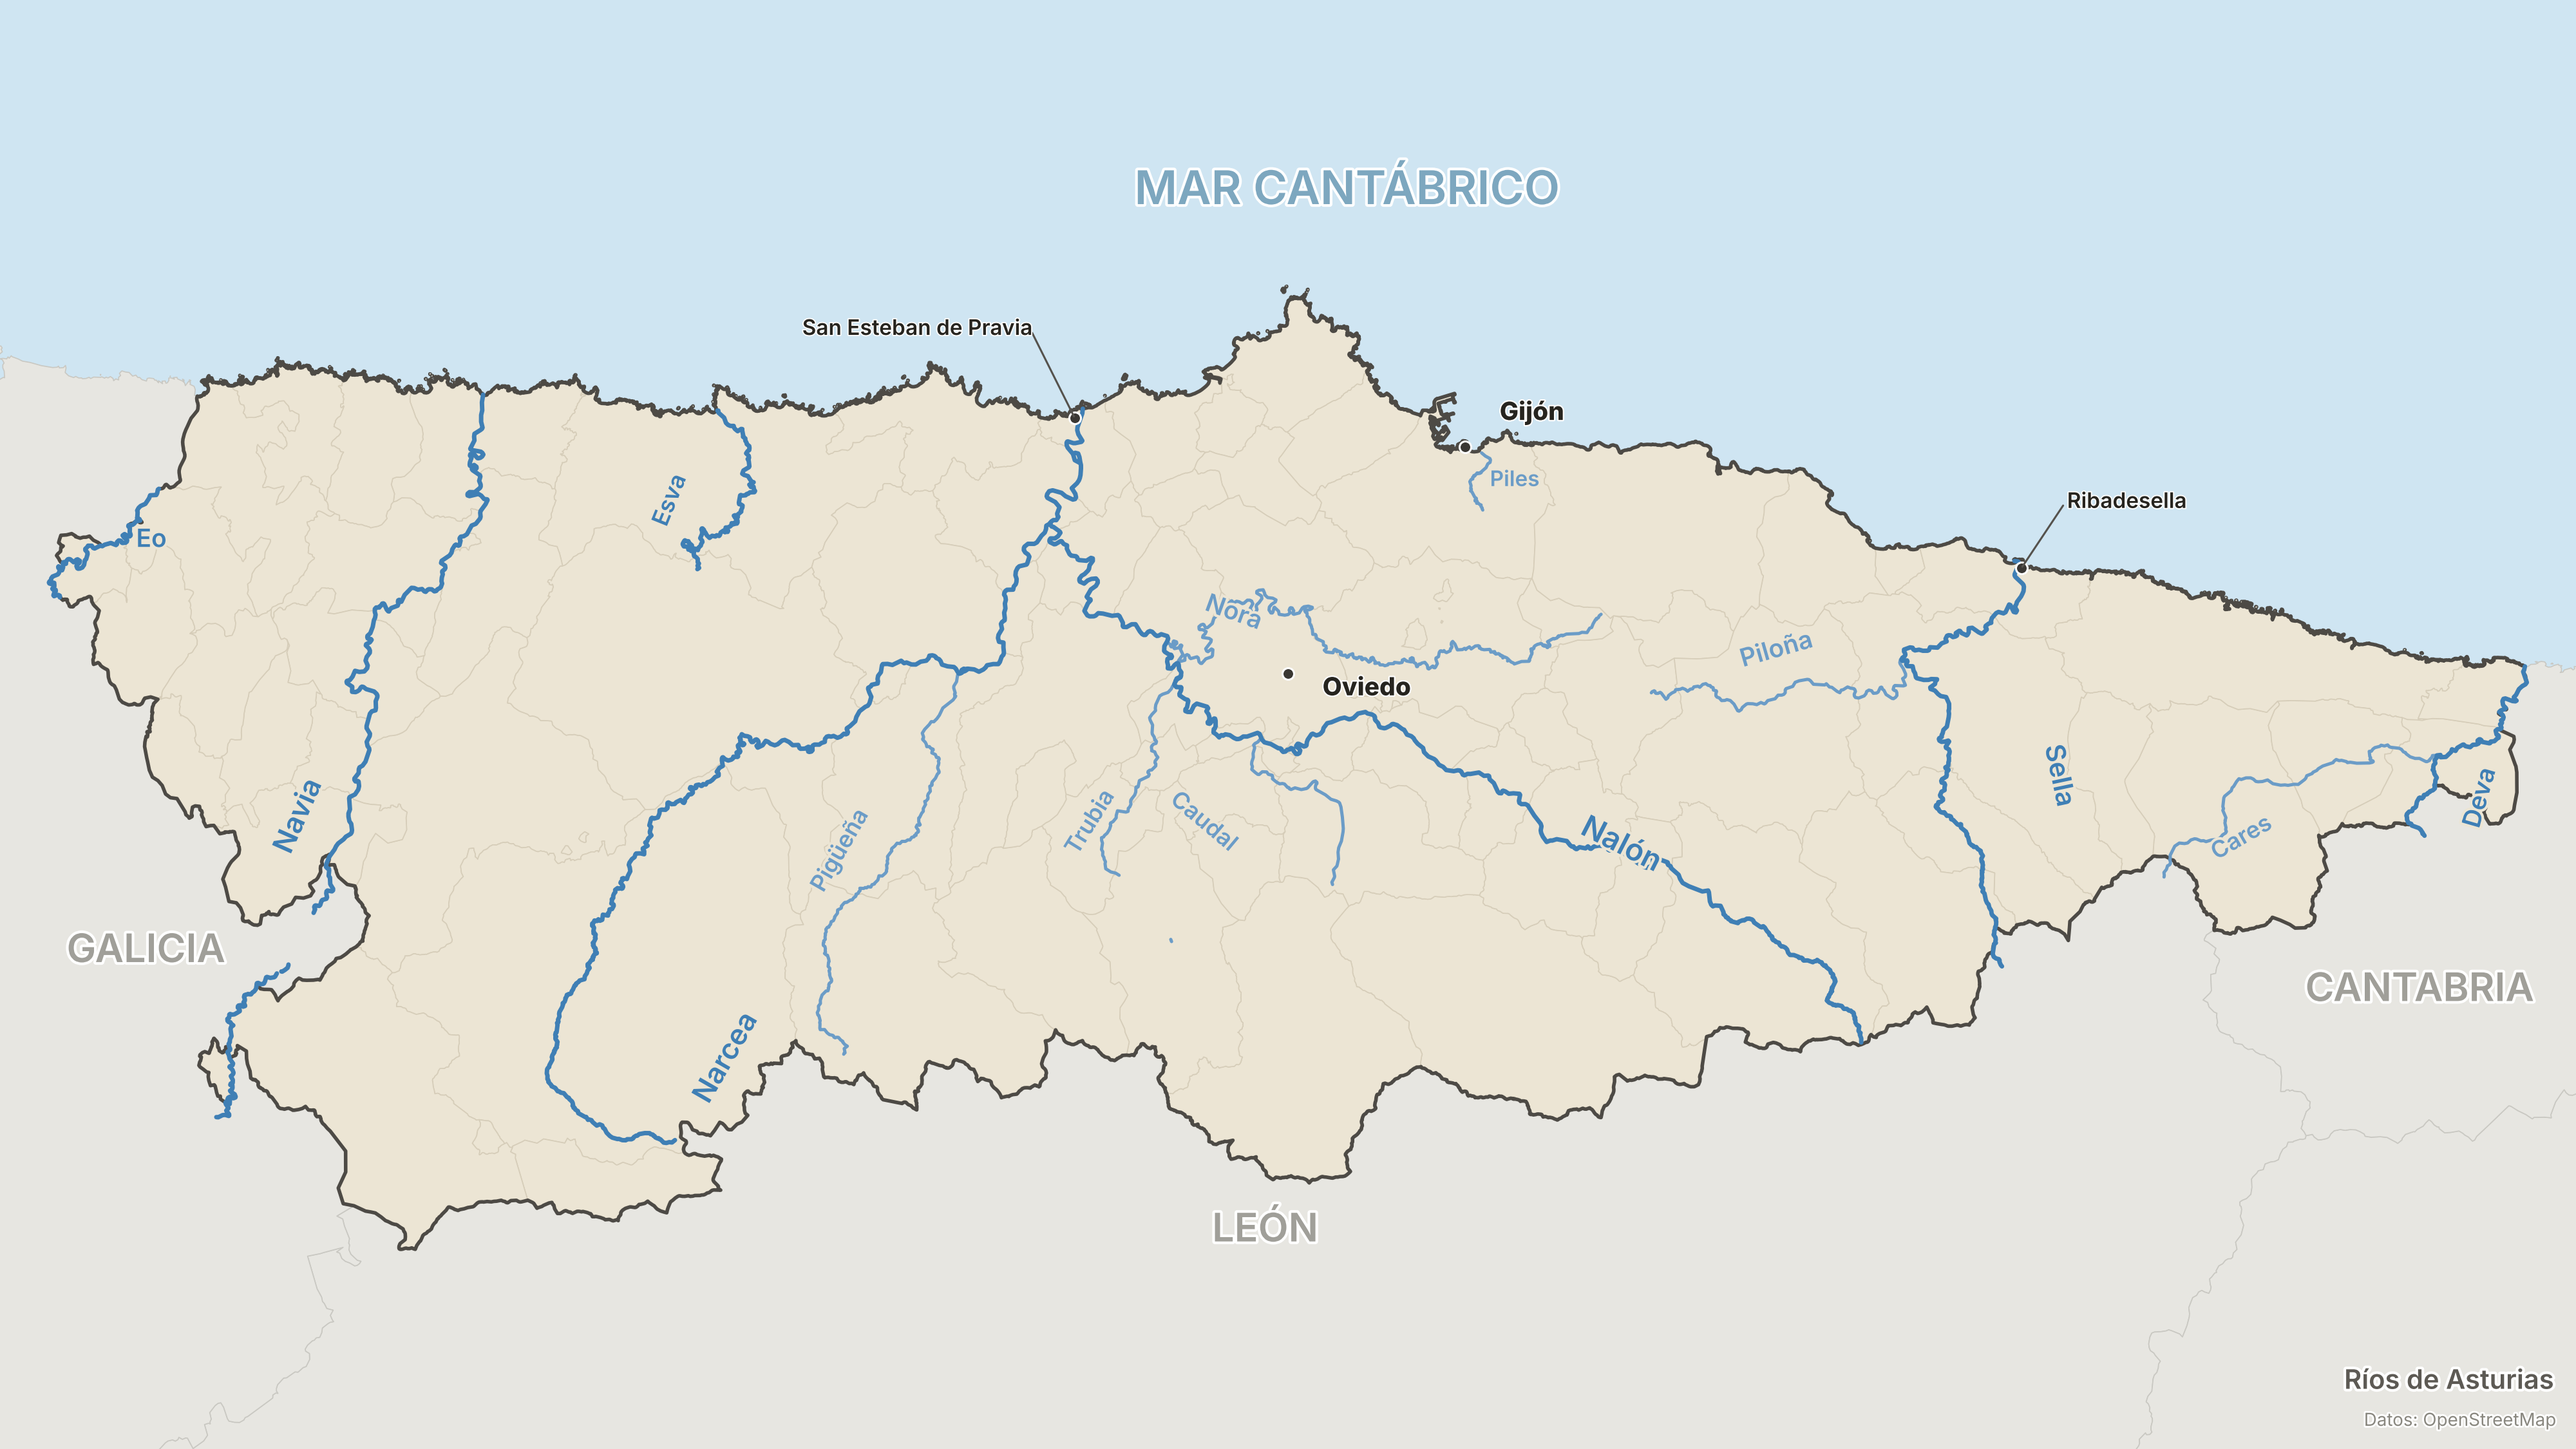
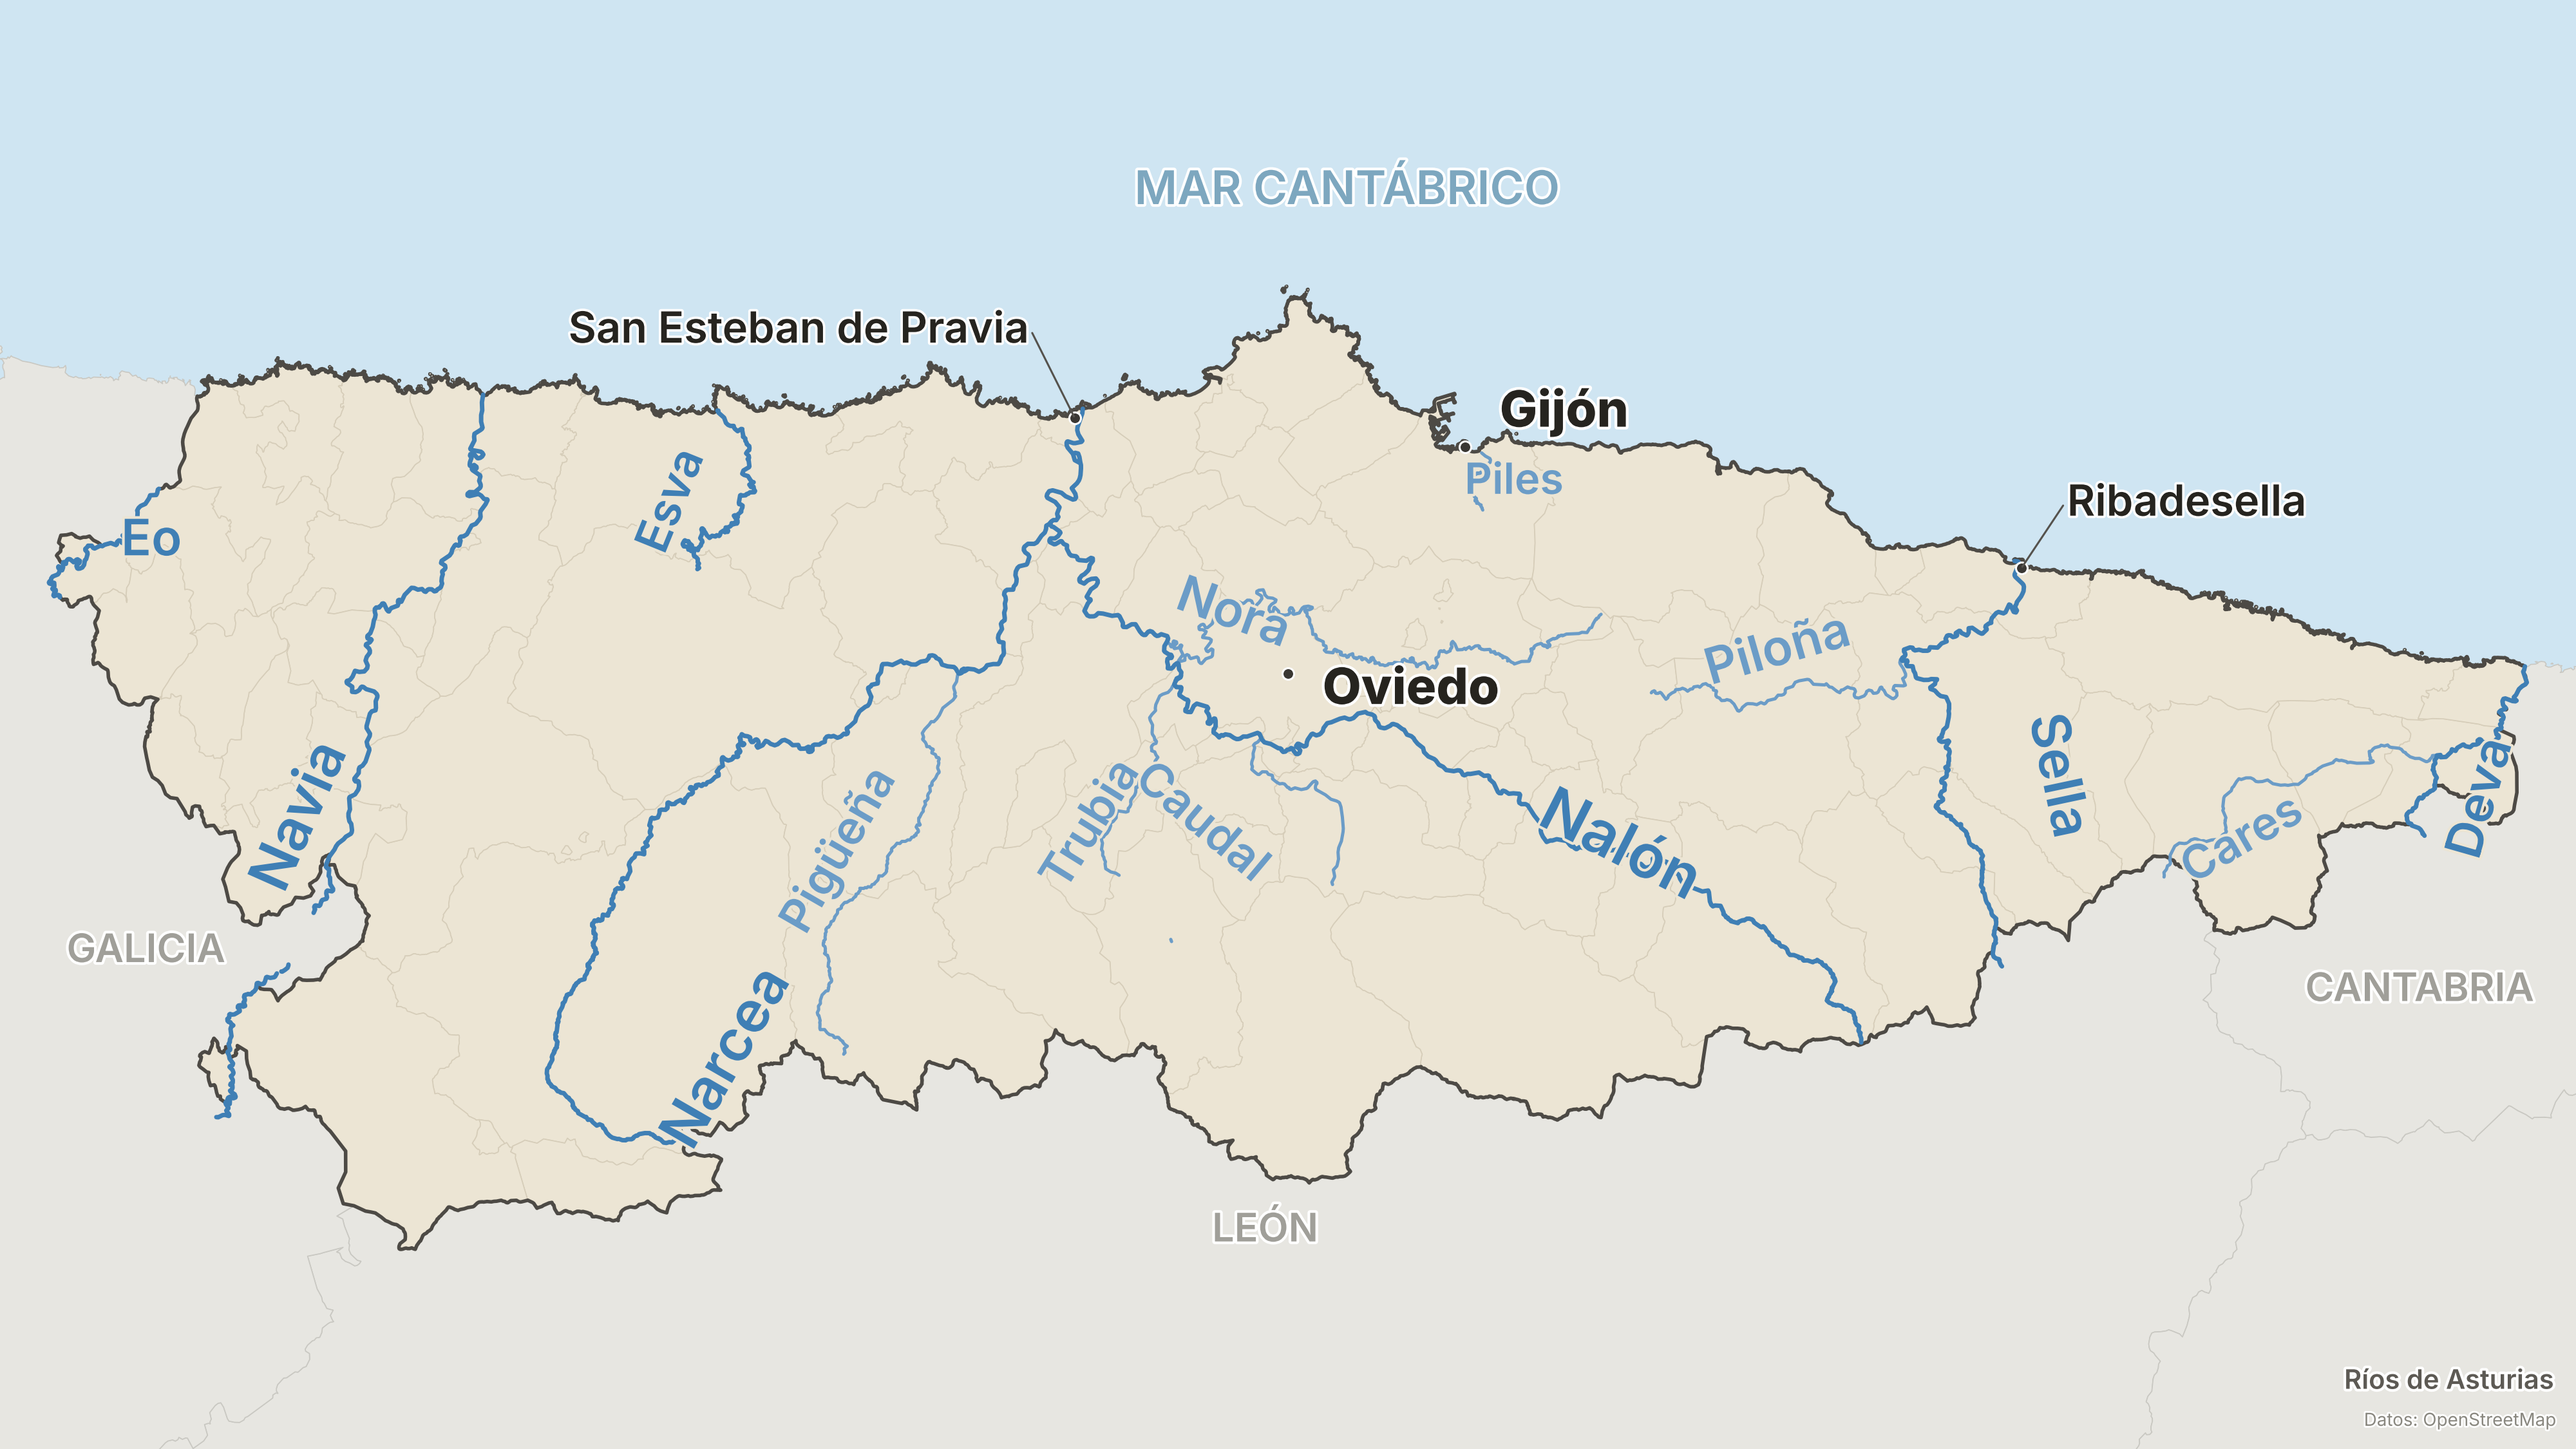
Bump text a bit

diff --git a/tvmaps/maps_asturias.py b/tvmaps/maps_asturias.py
@@ -162,9 +162,9 @@ COMARCA_NAME_ALIASES = {"Tapia de Casariego": "Tapia"}
 COMARCA_LABELS = {
     "Eo-Navia": Label(48),
     "Narcea": Label(48),
-    "Avilés": Label(38, dy=8),
+    "Avilés": Label(48),
     "Oviedo": Label(48),
-    "Gijón": Label(38, dx=-10, dy=2),
+    "Gijón": Label(48, dx=-10, dy=2),
     "Caudal": Label(44),
     "Nalón": Label(44),
     "Oriente": Label(48),
@@ -217,10 +217,10 @@ CONCEJO_MUTED = "#ece5d4"
 def _town_tier(pop):
     """(dot size, label size) by population."""
     if pop >= 100_000:
-        return 26, 36
+        return 26, 50
     if pop >= 20_000:
-        return 20, 30
-    return 14, 26
+        return 20, 42
+    return 14, 36
 
 
 # Text placement per town, offsets in km from the dot. Plain dx/dy places the
@@ -337,7 +337,7 @@ def render_asturias_ciudades_concejos():
     for floor, color, text in TIER_FILL:
         ax.plot(lx, ly, marker="s", ms=30, mfc=color, mec="#7a6f5e", mew=1.8,
                 zorder=20)
-        draw.halo_text(ax, lx + 0.012 * fw, ly, text, 28, weight="semibold",
+        draw.halo_text(ax, lx + 0.012 * fw, ly, text, 34, weight="semibold",
                        color="#3c3933", ha="left", va="center", zorder=20)
         ly -= step
 
@@ -381,20 +381,20 @@ class RiverSpec:
 # lon/lat is where the name sits, rotation follows the local course. All
 # hand-tuned so no name touches another name or crosses its own line awkwardly.
 ASTURIAS_RIOS = {
-    "Nalón":   RiverSpec(-5.48, 43.238, -27, 34),
-    "Narcea":  RiverSpec(-6.435, 43.045, 60, 32),
-    "Navia":   RiverSpec(-6.905, 43.220, 66, 32),
-    "Sella":   RiverSpec(-5.010, 43.300, -78, 30),
-    "Deva":    RiverSpec(-4.560, 43.290, 74, 28),
-    "Eo":      RiverSpec(-7.075, 43.432, 0, 28),
-    "Esva":    RiverSpec(-6.520, 43.480, 68, 26),
-    "Piloña":  RiverSpec(-5.320, 43.395, 16, 28, main=False),
-    "Nora":    RiverSpec(-5.905, 43.410, -20, 28, main=False),
-    "Trubia":  RiverSpec(-6.055, 43.240, 58, 26, main=False),
-    "Pigüeña": RiverSpec(-6.320, 43.210, 60, 26, main=False),
-    "Caudal":  RiverSpec(-5.930, 43.245, -40, 26, main=False),
-    "Cares":   RiverSpec(-4.815, 43.255, 30, 26, main=False),
-    "Piles":   RiverSpec(-5.608, 43.522, 0, 24, main=False),
+    "Nalón":   RiverSpec(-5.48, 43.238, -27, 68),
+    "Narcea":  RiverSpec(-6.435, 43.045, 60, 64),
+    "Navia":   RiverSpec(-6.905, 43.220, 66, 64),
+    "Sella":   RiverSpec(-5.010, 43.300, -78, 60),
+    "Deva":    RiverSpec(-4.560, 43.290, 74, 56),
+    "Eo":      RiverSpec(-7.075, 43.432, 0, 56),
+    "Esva":    RiverSpec(-6.520, 43.480, 68, 52),
+    "Piloña":  RiverSpec(-5.320, 43.395, 16, 56, main=False),
+    "Nora":    RiverSpec(-5.905, 43.410, -20, 56, main=False),
+    "Trubia":  RiverSpec(-6.055, 43.240, 58, 52, main=False),
+    "Pigüeña": RiverSpec(-6.320, 43.210, 60, 52, main=False),
+    "Caudal":  RiverSpec(-5.930, 43.245, -40, 52, main=False),
+    "Cares":   RiverSpec(-4.815, 43.255, 30, 52, main=False),
+    "Piles":   RiverSpec(-5.608, 43.522, 0, 48, main=False),
 }
 
 # A few reference points so the rivers can be read against known places.
@@ -407,10 +407,10 @@ RIOS_TOWNS = {
 }
 
 RIOS_TOWN_LABELS = {
-    "Oviedo": Label(28, dx=3, dy=-1, ha="left"),
-    "Gijón": Label(28, dx=3, dy=3, ha="left"),
-    "Ribadesella": Label(24, tx=4, ty=6, ha="left"),
-    "San Esteban de Pravia": Label(24, tx=-4, ty=8, ha="right"),
+    "Oviedo": Label(56, dx=3, dy=-1, ha="left"),
+    "Gijón": Label(56, dx=3, dy=3, ha="left"),
+    "Ribadesella": Label(48, tx=4, ty=6, ha="left"),
+    "San Esteban de Pravia": Label(48, tx=-4, ty=8, ha="right"),
 }
 
 
